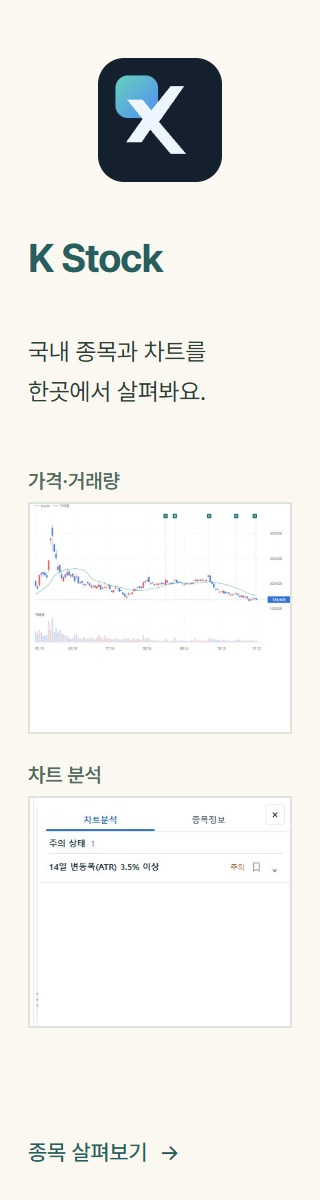
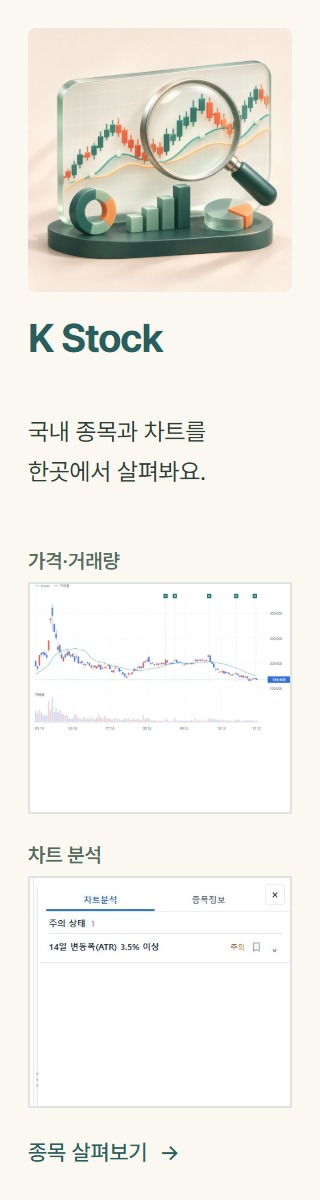
Refresh product promotion illustrations

diff --git a/used_market_gemini_cli_full_docs/apps/domestic/web-backend/public/changelog.html b/used_market_gemini_cli_full_docs/apps/domestic/web-backend/public/changelog.html
@@ -41,7 +41,7 @@
             <summary>출시한 서비스 둘러보기</summary>
             <figure>
               <a href="/changelog/2026-11-15-service-promotions.png" target="_blank" rel="noopener noreferrer" aria-label="서비스 순환 광고 화면 크게 보기"><img src="/changelog/2026-11-15-service-promotions.png" alt="운영 검색 화면의 우측과 하단에 서로 다른 서비스를 소개하는 배너. 필터와 매물, 페이지 이동은 기존 위치에 표시한다" loading="lazy" decoding="async" width="1440" height="1000" /></a>
-              <figcaption>외부 광고를 실제 서비스 중인 트레인갤러리·우리여정·K Stock·Jira Obsidian 소개로 바꿨습니다. 기존 우측과 하단 자리에서 서로 다른 제품을 차분하게 넘겨 보여 줍니다. 마우스를 올리거나 키보드로 선택하면 멈추며, ‘멈춤’ 버튼과 기기의 동작 줄이기 설정도 지원합니다. 트레인갤러리·우리여정은 기기에 관계없이 Google Play로, K Stock은 웹사이트로, Jira Obsidian은 Atlassian Marketplace로 이동합니다.</figcaption>
+              <figcaption>외부 광고를 실제 서비스 중인 트레인갤러리·우리여정·K Stock·Jira Obsidian 소개로 바꿨습니다. Jira Obsidian은 우주 속 흑요석, K Stock은 주식 분석, 우리여정은 여행 경로와 풍경 그림으로 소개합니다. 기존 우측과 하단 자리에서 서로 다른 제품을 차분하게 넘겨 보여 줍니다. 마우스를 올리거나 키보드로 선택하면 멈추며, ‘멈춤’ 버튼과 기기의 동작 줄이기 설정도 지원합니다. 트레인갤러리·우리여정은 기기에 관계없이 Google Play로, K Stock은 웹사이트로, Jira Obsidian은 Atlassian Marketplace로 이동합니다.</figcaption>
             </figure>
           </details>
         </section>

diff --git a/used_market_gemini_cli_full_docs/apps/domestic/web-backend/public/price-analysis.html b/used_market_gemini_cli_full_docs/apps/domestic/web-backend/public/price-analysis.html
@@ -8,8 +8,8 @@
   <link rel="icon" href="/assets/mark.svg" type="image/svg+xml">
   <link rel="stylesheet" href="/styles.css?v=pc-tools-v1"><link rel="stylesheet" href="/pc-tools.css?v=price-clarity-v1"><link rel="stylesheet" href="/ui-concept-a.css?v=aligned-shell-v1">
   <link rel="stylesheet" href="/pc-workspace.css?v=price-axis-right-v1">
-  <link rel="stylesheet" href="/adfit-layout.css?v=house-rotation-v1-storelinks">
-    <link rel="stylesheet" href="/promotions/train-gallery/banner.css?v=house-rotation-v1-storelinks">
+  <link rel="stylesheet" href="/adfit-layout.css?v=house-rotation-v1-art2">
+    <link rel="stylesheet" href="/promotions/train-gallery/banner.css?v=house-rotation-v1-art2">
   <link rel="stylesheet" href="/site-header-links.css?v=1">
   <link rel="stylesheet" href="/mobile-tools.css?v=source-toggle-v2">
   <link rel="stylesheet" href="/mobile-model-picker.css?v=tab-picker-v1">
@@ -138,6 +138,6 @@
     <nav class="tools-mobile-pages" aria-label="모바일 주 메뉴"><a href="/">검색</a><a href="/computer-builder.html">컴퓨터 시세</a></nav>
     <nav class="tools-mobile-policy" aria-label="이용 및 정책"><a href="/changelog.html">패치 내역</a><a href="/support.html">후원</a><a href="/contact.html">문의</a><a href="/guide.html">이용 안내</a><a href="/privacy.html">개인정보처리방침</a><a href="/terms.html">이용약관</a></nav>
   </dialog>
-  <script type="module" src="/pc-tools.js?v=house-rotation-v1-storelinks"></script>
+  <script type="module" src="/pc-tools.js?v=house-rotation-v1-art2"></script>
 </body>
 </html>

diff --git a/used_market_gemini_cli_full_docs/apps/domestic/web-backend/public/computer-builder.html b/used_market_gemini_cli_full_docs/apps/domestic/web-backend/public/computer-builder.html
@@ -8,8 +8,8 @@
   <link rel="icon" href="/assets/mark.svg" type="image/svg+xml">
   <link rel="stylesheet" href="/styles.css?v=pc-tools-v1"><link rel="stylesheet" href="/pc-tools.css?v=parts-ux-v6"><link rel="stylesheet" href="/ui-concept-a.css?v=aligned-shell-v1">
   <link rel="stylesheet" href="/builder-toolbar.css?v=price-clarity-v1">
-  <link rel="stylesheet" href="/adfit-layout.css?v=house-rotation-v1-storelinks">
-    <link rel="stylesheet" href="/promotions/train-gallery/banner.css?v=house-rotation-v1-storelinks">
+  <link rel="stylesheet" href="/adfit-layout.css?v=house-rotation-v1-art2">
+    <link rel="stylesheet" href="/promotions/train-gallery/banner.css?v=house-rotation-v1-art2">
   <link rel="stylesheet" href="/site-header-links.css?v=1">
   <link rel="stylesheet" href="/mobile-tools.css?v=sold-joongna-v1">
   <link rel="stylesheet" href="/mobile-model-picker.css?v=tab-picker-v1">
@@ -97,6 +97,6 @@
     <nav class="tools-mobile-pages" aria-label="모바일 주 메뉴"><a href="/">매물 찾기</a><a href="/computer-builder.html">컴퓨터 시세</a></nav>
     <nav class="tools-mobile-policy" aria-label="이용 및 정책"><a href="/changelog.html">패치 내역</a><a href="/support.html">후원</a><a href="/contact.html">문의</a><a href="/guide.html">이용 안내</a><a href="/privacy.html">개인정보처리방침</a><a href="/terms.html">이용약관</a></nav>
   </dialog>
-  <script type="module" src="/pc-tools.js?v=house-rotation-v1-storelinks"></script>
+  <script type="module" src="/pc-tools.js?v=house-rotation-v1-art2"></script>
 </body>
 </html>

diff --git a/used_market_gemini_cli_full_docs/apps/domestic/web-backend/public/pc-tools.js b/used_market_gemini_cli_full_docs/apps/domestic/web-backend/public/pc-tools.js
@@ -1,7 +1,7 @@
 import { SERIES, idOf, nameOf, naturalCompare, money, metricValue, soldMeanValue, metricPresentation, listedPriceRange, statsUnavailable, priceRecordIssue, analysisSelectionUrl, groupProducts, scopedStats, sourceStats, priceDateRange, shiftDate, modelPageItems, buildTotals, compactBuild, compatibility, validateBuild, dailySeries, percentChange, buildAnalysisSeries } from './pc-tools-core.mjs?v=shared-price-v2';
 import { readJson, createPriceStore } from './pc-tools-data.mjs?v=picker-fast-v3';
 import { drawMarketChart as drawChart } from './pc-market-chart.mjs?v=compact-chart-v2';
-import { createPromotionSlots } from './promotions/rotation.js?v=house-rotation-v1-storelinks';
+import { createPromotionSlots } from './promotions/rotation.js?v=house-rotation-v1-art2';
 import { toolBrand, toolFilterSchema, toolFacetValues, toolFacetLabel, filterToolProducts, visibleSelection, toolScopeNote } from './pc-tools-catalog.mjs?v=parts-ux-v4';
 import { priceWindowUrl } from './price-window.mjs?v=compact-chart-v2';
 

diff --git a/used_market_gemini_cli_full_docs/apps/domestic/web-backend/public/index.html b/used_market_gemini_cli_full_docs/apps/domestic/web-backend/public/index.html
@@ -35,8 +35,8 @@
     <link rel="stylesheet" href="/pc-tools.css?v=6" />
     <link rel="stylesheet" href="/ui-concept-a.css?v=adfit-all-v3" />
     <link rel="stylesheet" href="/search-controls.css?v=model-label-v1" />
-    <link rel="stylesheet" href="/adfit-layout.css?v=house-rotation-v1-storelinks">
-    <link rel="stylesheet" href="/promotions/train-gallery/banner.css?v=house-rotation-v1-storelinks">
+    <link rel="stylesheet" href="/adfit-layout.css?v=house-rotation-v1-art2">
+    <link rel="stylesheet" href="/promotions/train-gallery/banner.css?v=house-rotation-v1-art2">
     <link rel="stylesheet" href="/site-header-links.css?v=1">
     <link rel="stylesheet" href="/mobile-search.css?v=listing-note-v1">
     <link rel="stylesheet" href="/listing-workspace.css?v=listing-note-v1">
@@ -245,6 +245,6 @@
       </nav>
     </footer>
 
-    <script type="module" src="/app.js?v=house-rotation-v1-storelinks"></script>
+    <script type="module" src="/app.js?v=house-rotation-v1-art2"></script>
   </body>
 </html>

diff --git a/used_market_gemini_cli_full_docs/apps/domestic/web-backend/public/promotions/rotation.js b/used_market_gemini_cli_full_docs/apps/domestic/web-backend/public/promotions/rotation.js
@@ -110,7 +110,7 @@ export function createPromotionSlots(roots) {
   const render = view => {
     const product = productFor(view.placement, index);
     const { url, label } = destinationFor(product);
-    const art = format => `/promotions/house/${product.id}-${format}.jpg?v=20261115-play`;
+    const art = format => `/promotions/house/${product.id}-${format}.jpg?v=20261115-art2`;
     view.link.href = url;
     view.link.setAttribute('aria-label', `${product.name} — ${product.message} ${label} (새 창)`);
     if (view.source) view.source.srcset = art('strip');

diff --git a/used_market_gemini_cli_full_docs/apps/domestic/web-backend/public/app.js b/used_market_gemini_cli_full_docs/apps/domestic/web-backend/public/app.js
@@ -1,4 +1,4 @@
-import { createPromotionSlots } from "./promotions/rotation.js?v=house-rotation-v1-storelinks";
+import { createPromotionSlots } from "./promotions/rotation.js?v=house-rotation-v1-art2";
 import { toolQueryMatches } from "./pc-tools-catalog.mjs?v=parts-ux-v4";
 import { readJsonResponse } from "./read-json.mjs?v=lookup-recovery-v1";
 import { createPriceStore } from "./pc-tools-data.mjs?v=domestic-danawa-v1";

diff --git a/used_market_gemini_cli_full_docs/apps/domestic/docs/daily_history/2026-11-15.md b/used_market_gemini_cli_full_docs/apps/domestic/docs/daily_history/2026-11-15.md
@@ -60,3 +60,24 @@
 - 최종482 `1b6d7c11-d6d5-46ca-b6bb-6aae7c42cabc`100% 실제 배포 및 공개 두 도메인 검증 통과. Worker etag·22bindings·runtime·settings·routes/domains·cron 동일. 복구점481. 실제 PC1440/Android UA390에서 운영 module의4개 제품/모든 목적지와 각2개 슬롯의 순환·서로 다른 제품·우리여정 Play href/라벨을 확인했다. 기존 현재 공개 캡처는 유지한 Train Gallery/K Stock 모습이므로 여전히 유효하다. 추가 테스트·하네스·스캐너·감시·승인 단계0, 기존 destination 계약의 오래된 PC 웹 링크 기대만 수정했다.
 - AdMob 정확한 USED PICK 앱에서 업데이트 확인을 다시 요청했으나 app-ads.txt 계정 불일치 안내가 남았다. 콘솔이 요구하는 publisher 행은 공개 파일과 같다. 이를 크롤러 지연이라고 확정하거나 승인 완료라고 쓰지 않는다. 동의 메시지 게시·앱 연결/테스트 성공·Play 심사 접수와 AdMob 앱 인증 미완료를 구분한다. 최종 콘솔 캡처 `mobile/artifacts/0.1.3/admob-verification-status.jpg` 보존.
 - 종료: 소유한 AVD 이름 UsedPickTwaApi36을 확인한 뒤 emulator-5620만 정상 종료하고 CDP9313 forward를 제거했다. launcher20880/QEMU54800과 리슨5620·5621·9313이 없음을 확인했다. 다른 세션의5580·5590·5600과 기본ADB5037은 종료하지 않았고 ADB5048도 임의로 내리지 않았다. 기기 프로필·산출물·로그는 재검증을 위해 보존했다.
+
+## 제품별 홍보 그림 교체 — 운영483
+
+- 총괄의 읽기 전용 중앙 `promotion-assets/2026-11-14/manifest.json`·README·signature-preview를 확인하고 Jira Obsidian·K Stock·우리여정의 wide/rail/strip JPEG9개만 복사했다. 우주 속 흑요석·주식 분석·여행 경로와 풍경 그림이며 총괄이 image_gen으로 만든 홍보 그림이다. 기존 실제 제품 화면과 구분한다. 이 담당에서 추가 그림 생성이나 중앙 원본 수정은 없다.
+- 변경 파일은 `web-backend/public/promotions/house/`의 해당9개 JPEG, 기존 캐시 연결6개(`promotions/rotation.js`, `app.js`, `pc-tools.js`, `index.html`, `computer-builder.html`, `price-analysis.html`), 기존11월15일 공개 패치 설명과 이 일일 기록이다. 공개 패치의 이전 실제 화면·원본 링크·역사 이미지 안내는 보존했다. 새 운영 화면은 아래 검증 캡처로 보존했다.
[1 lines of base64/hex data omitted]
+- 두 공개 도메인의 기존 health/HTML4개·정적 파일 검증 통과. 아래9개 운영 JPEG를 실제 공개 URL에서 내려받아 로컬 복사본 및 중앙 원본과 SHA256 일치를 확인했다. 그림 캐시는 `20261115-art2`, entry/module 캐시는 `house-rotation-v1-art2`다. 카탈로그4개·자기 제품 제외·목적지·ARIA·10초 순환·다른 슬롯 제품 중복 방지·원래 Train Gallery 영상·정지/읽는 중 중지·모션 감소·앱 내 웹 홍보 숨김 로직은 변경하지 않았다.
+- Browser plugin 미제공으로 기존 native Chrome/Playwright 경로를 재사용했다. 실제 `https://used-pick.com/?category_code=CPU`에서1440×1000 PC 우측160×600/하단960×140,390×844 모바일 하단320×100을 각각4번의 자연 순환 상태로 확인했다. 새9개 형식 모두 실제 표시됐고 두 슬롯은 서로 다른 제품이다. 두 viewport 모두 페이지 오류0·가로 넘침0, runtime catalog와 링크/접근성 이름 일치. 캡처는 `signature-1440-0.png`~`signature-1440-3.png`, `signature-390-0.png`~`signature-390-3.png`; 실제 src·크기·링크·파일hash는 같은 폴더 `signature-ui.json`에 있다. 새 wrapper·카드·반복 안내는 추가하지 않았다.
+- 변경 직전 점검: 새 검사 대신 기존 대상·배포·무결성·복구 확인을 재사용했다. 기존 monetization 계약1회 통과. 신규 관리 포인트/검사/회귀 테스트/하네스/스캐너/감시/승인/운영 저장상태는 각각추가0·제거0(순증0). Android·AdMob·Play 제출·서명·인증·DB·시세·분류·수집 경로 변경0. 브라우저는 한 개를 재사용하고 종료했다.
+
+| 공개 배너 파일 | 중앙 원본 = 운영 SHA-256 |
+| --- | --- |
[9 lines of base64/hex data omitted]
